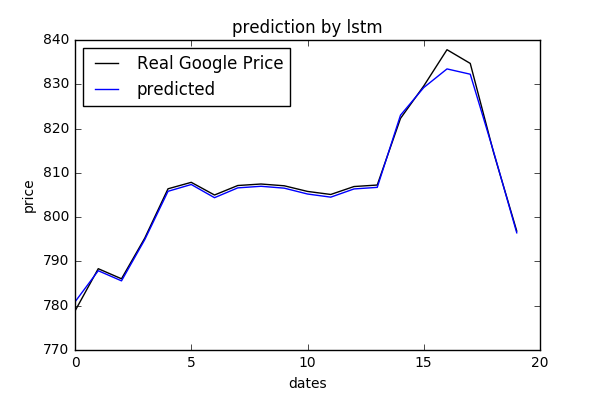
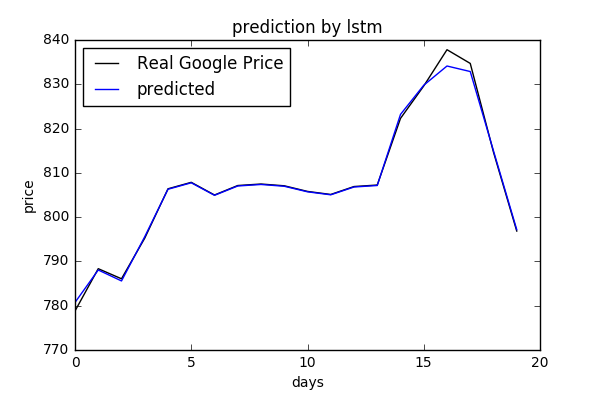
predicted with full data using lstm. need to clean up the code mess later on

diff --git a/rnn.py b/rnn.py
@@ -1,3 +1,6 @@
+#changing from tanh to sigmoid, or using adam instead of rmsprop doesn't seem to change the result much
+#it doesn't seem that benchmarking with epochs really help. Mean values don't help
+
 import numpy as np
 import matplotlib.pyplot as plt
 import pandas as pd
@@ -34,10 +37,10 @@ model.add(LSTM(units=4,activation="tanh",input_shape=(None,1))) #units = number 
 #(None,1) represents any timestep, 1 feature.
 
 model.add(Dense(units=1, activation="sigmoid"))
-model.compile(optimizer="rmsprop",loss="MSE",metrics=["MAE"])
-model.fit(x_train,y_train, batch_size=20, epochs=200)
+model.compile(optimizer="rmsprop",loss="MSE")
+model.fit(x_train,y_train, batch_size=20, epochs=300)
 
-
+'''
 test_data=pd.read_csv('Google_Stock_Price_Test.csv')
 test_open=test_data.iloc[:,1:2]
 test_open = sc.fit_transform(test_open)
@@ -46,10 +49,13 @@ x_test=test_open[0:1257,]
 y_test=test_open[1:1258,]
 
 x_test=np.reshape(x_test,(20,1,1))
-y_pred = model.predict(x_test,batch_size=20)
+y_pred = model.predict(x_test)
+'''
 #remember, we can only predict from the previous days...therefore the first/second day doesn't have much data
-
-
+###########################################################################################
+#previously we only predicted 20 data points. Now, it's over 1200+ days
+full_y_pred = model.predict(x_train)
+x_train = np.reshape(x_train,(1257,1))
 ########################
 #to graph
 
@@ -57,12 +63,26 @@ def graph(real_open, y_pred):
     y_pred = sc.inverse_transform(y_pred) #important, getting back the stock price from the standardscale
     real_open = sc.inverse_transform(real_open)
     plt.plot(real_open, color="black", label="Real Google Price")
-    plt.plot(y_pred, color="blue", label="predicted")
-    plt.title("prediction by lstm")
-    plt.xlabel("dates")
+    plt.plot(y_pred, color="green", label="predicted")
+    plt.title("prediction with lstm")
+    plt.xlabel("days")
     plt.ylabel("price")
     plt.legend(loc="upper left")
-    plt.savefig('benchmark')
+    plt.savefig('result')
     plt.show()
+'''    
+def benchmark(key,val_key,history_dict, title):
+    plt.plot(history_dict[key])
+    plt.plot(history_dict[val_key])
     
-graph(test_open,y_pred) #bad naming scheme for test open, since this is all data, not just a test set
+    plt.title(title)
+    plt.yscale("log")
+    plt.ylabel("mean abs % error")
+    plt.xlabel("epoch")
+    plt.legend(["train", "test"], loc="upper right")
+    plt.savefig(title)
+    plt.show()
+'''    
+graph(x_train,full_y_pred)
+#graph(test_open,y_pred) #bad naming scheme for test open, since this is all data, not just a test set
+#rnn_accuracy_plt=benchmark("mean_absolute_percentage_error", "loss", model_history.history, title="rnn accuracy")
